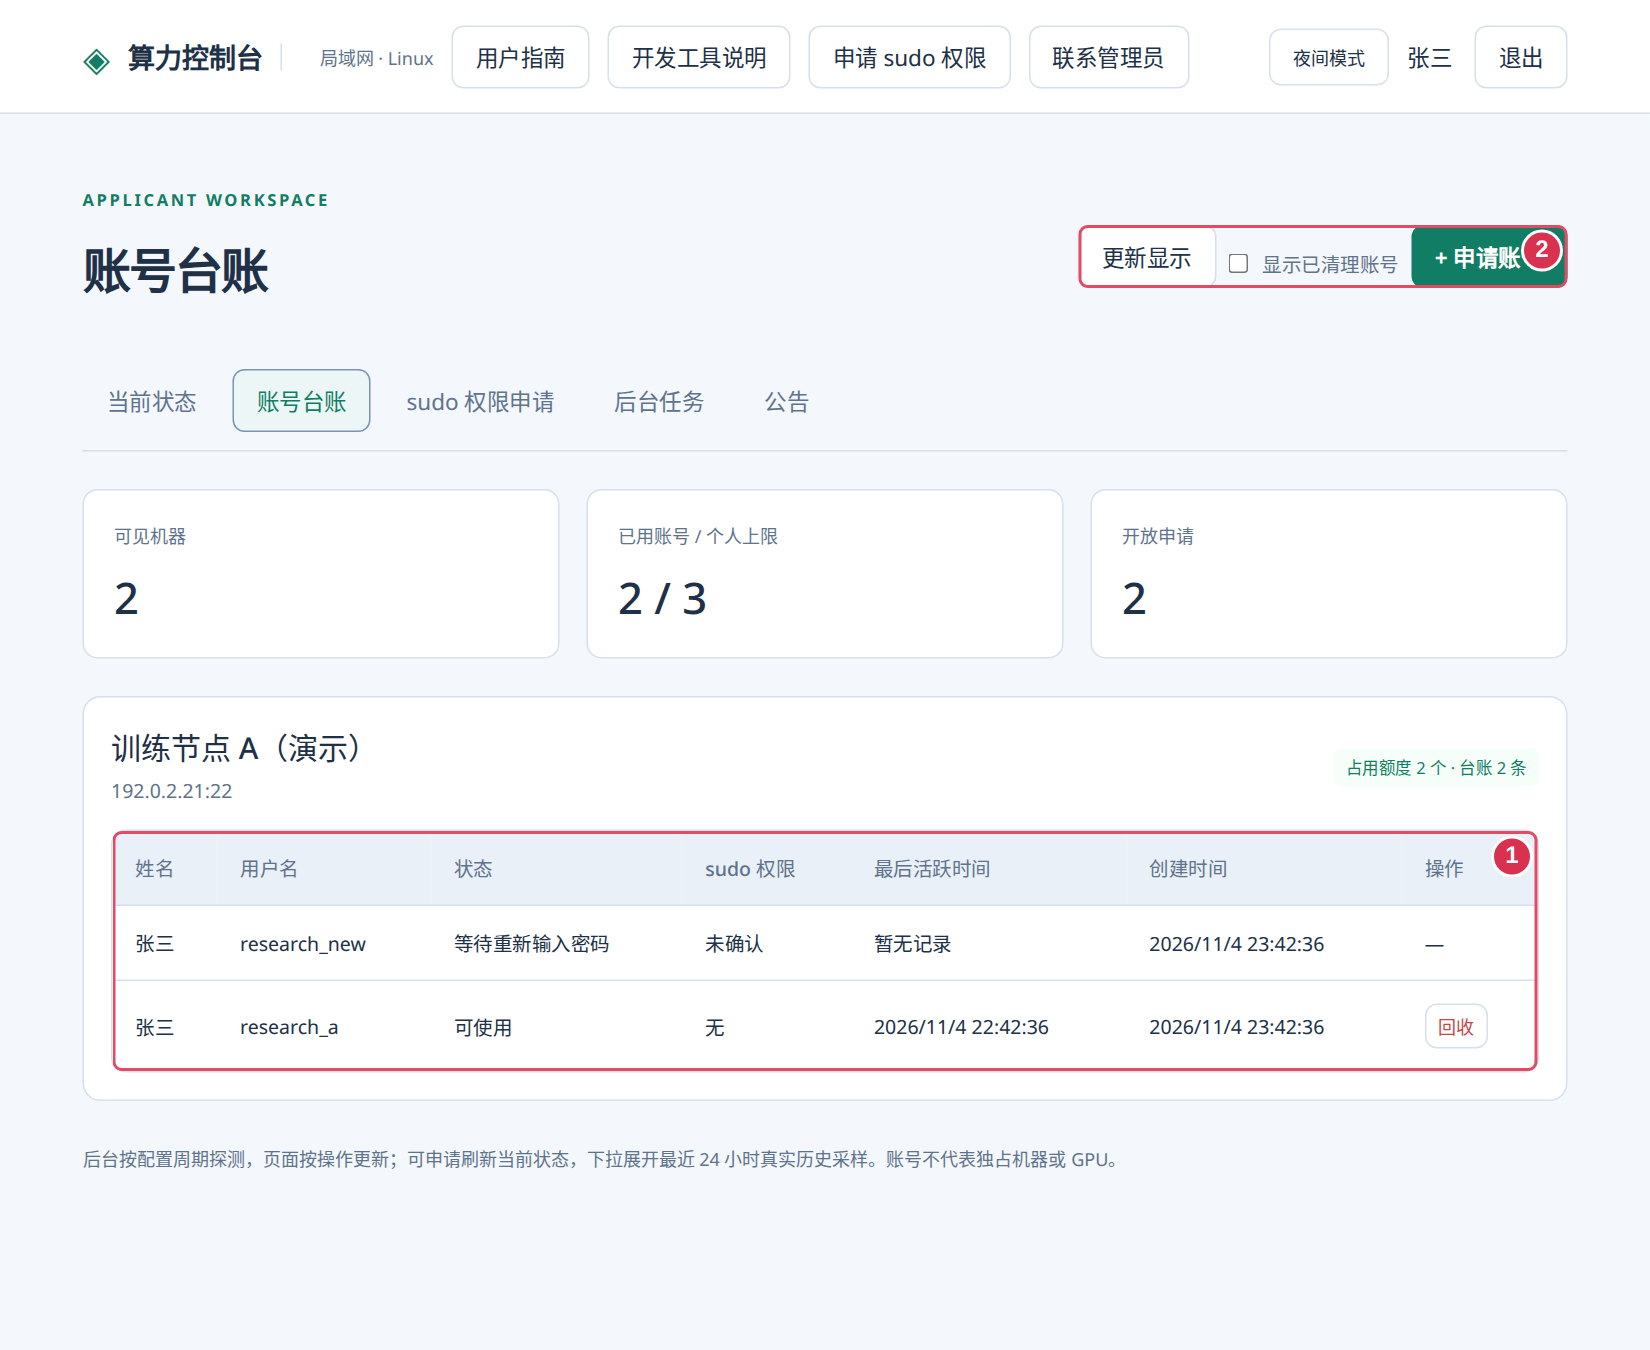
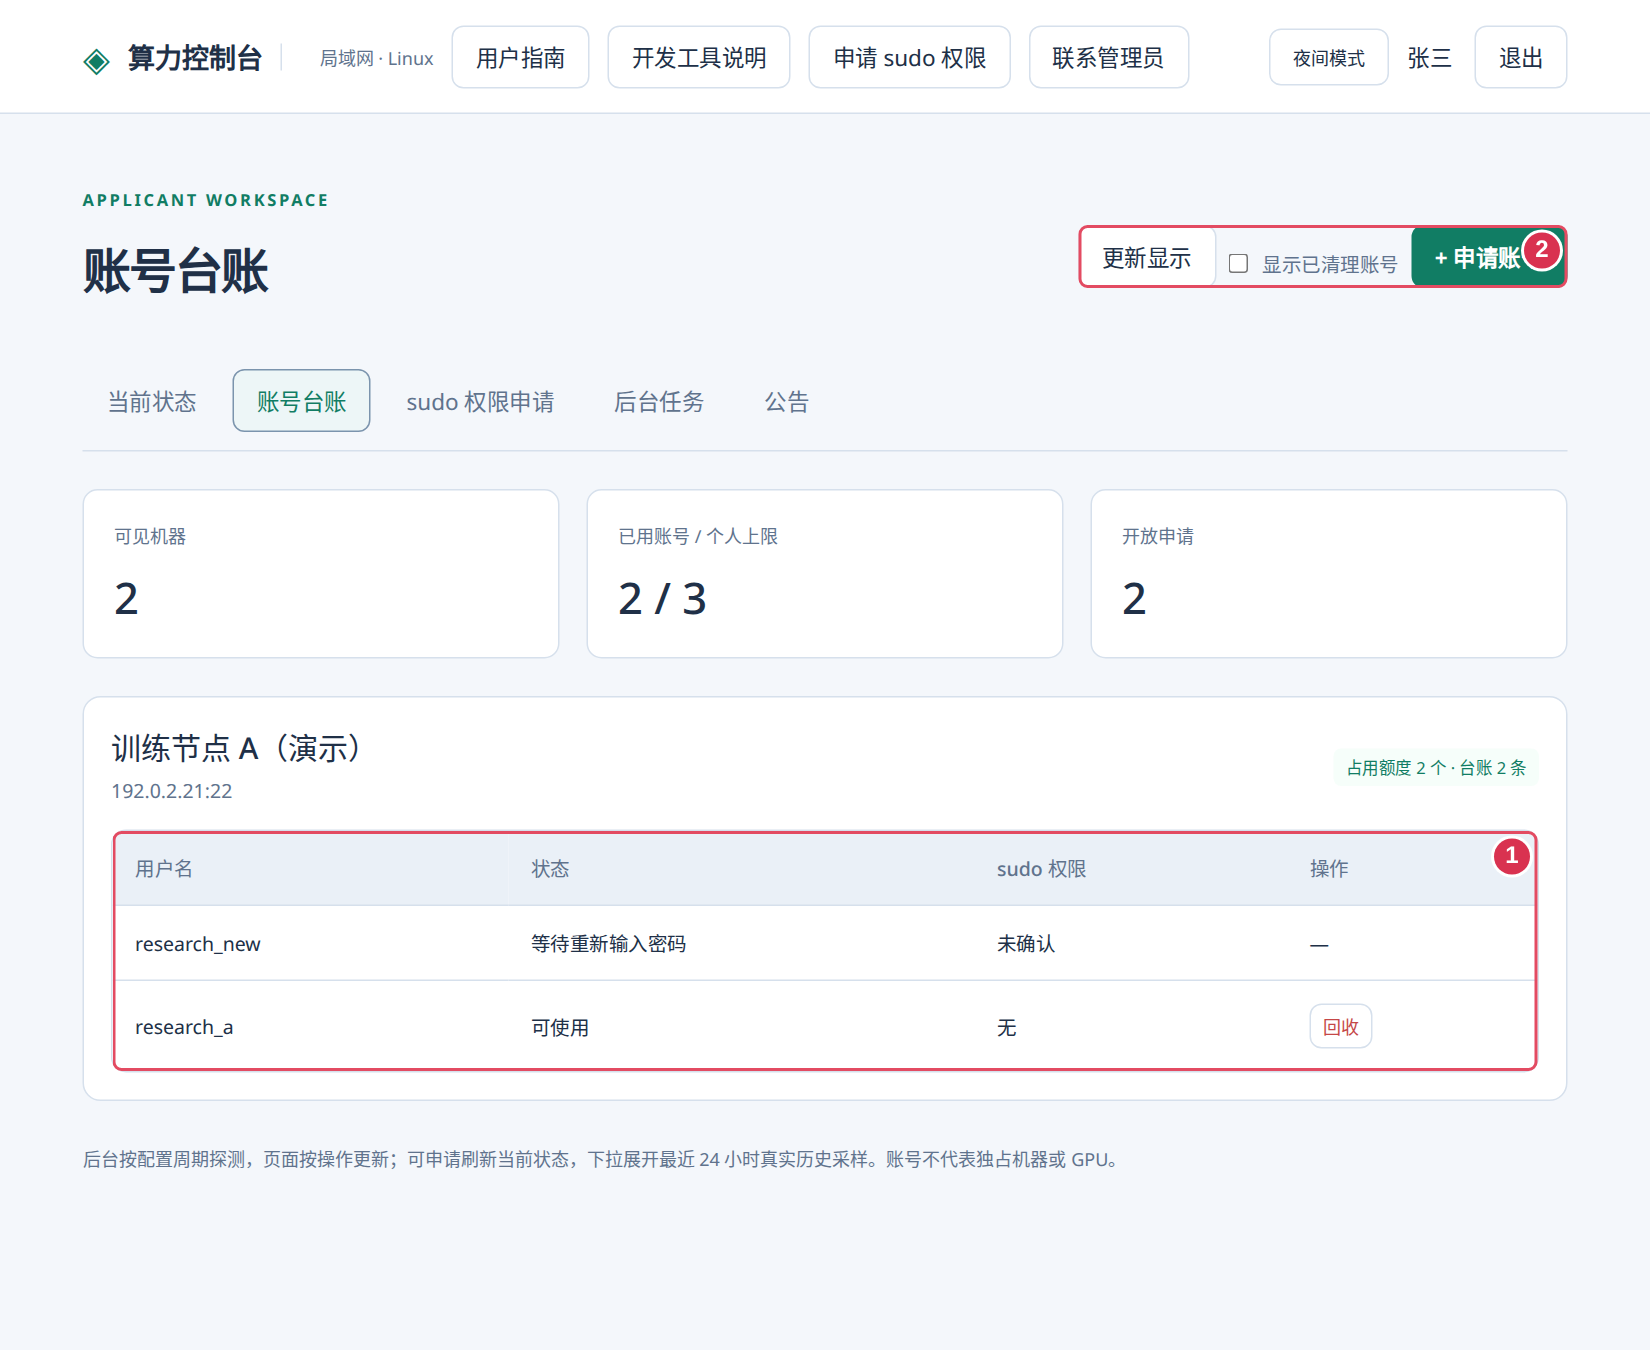
fix: show four essential applicant ledger columns; 17 tests pass

diff --git a/src/compute_control/static/app.js b/src/compute_control/static/app.js
@@ -130,13 +130,13 @@ function lastActive(account) {
 }
 function renderAccountGroups(accounts, content) {
   if (!accounts.length) { content.append(empty('尚无登记账号', '申请后，这里按机器保存姓名与账号的对应关系。')); return; }
-  const groups = new Map(), showOwner = state.role === 'admin';
+  const groups = new Map(), isAdmin = state.role === 'admin';
   for (const account of accounts) { if (!groups.has(account.machine_id)) groups.set(account.machine_id, []); groups.get(account.machine_id).push(account); }
   for (const rows of [...groups.values()].sort((a, b) => a[0].machine_name.localeCompare(b[0].machine_name, 'zh-CN', { numeric: true }))) {
     const machine = rows[0], group = el('section', undefined, 'panel account-machine-group'), heading = el('div', undefined, 'account-machine-heading');
     const title = el('div'); title.append(el('h2', machine.machine_name), el('p', `${machine.host}:${machine.port}`, 'muted'));
     heading.append(title, el('span', `占用额度 ${rows.filter(account => account.occupies).length} 个 · 台账 ${rows.length} 条`, 'badge')); group.append(heading);
-    group.append(table([...(showOwner ? ['姓名'] : []), '用户名', '状态', 'sudo 权限', '最后活跃时间', '创建时间', '操作'], rows.map(account => [...(showOwner ? [account.name] : []), account.username, (labels[account.state] || account.state) + (account.ledger_cleared_at ? '（已清理）' : ''), showOwner ? Portal.permissionSwitch(account) : account.is_admin == null ? '未确认' : account.is_admin ? '有' : '无', lastActive(account), date(account.created), Portal.accountControls(account)])));
+    group.append(table([...(isAdmin ? ['姓名'] : []), '用户名', '状态', 'sudo 权限', ...(isAdmin ? ['最后活跃时间', '创建时间'] : []), '操作'], rows.map(account => [...(isAdmin ? [account.name] : []), account.username, (labels[account.state] || account.state) + (account.ledger_cleared_at ? '（已清理）' : ''), isAdmin ? Portal.permissionSwitch(account) : account.is_admin == null ? '未确认' : account.is_admin ? '有' : '无', ...(isAdmin ? [lastActive(account), date(account.created)] : []), Portal.accountControls(account)])));
     content.append(group);
   }
 }

diff --git a/docs/records/2026-11-05-applicant-ledger-columns.md b/docs/records/2026-11-05-applicant-ledger-columns.md
@@ -7,3 +7,11 @@
 - 台账与最后活跃时间相关 5 项测试通过；JavaScript 语法、Ruff 及差异检查通过。
 - 已同步部署静态脚本并核对静态资源 HTTP 响应的哈希；部署前保存备份，Web 和 worker 进程均未重启。
 - 本次仅调整表格展示，未变更账号归属、服务端访问规则或凭据。
+
+## 继续精简申请者列
+
+- 按后续要求，申请者台账同时隐藏最后活跃时间与创建时间，仅保留用户名、状态、sudo 权限和操作；管理员保持七列。
+- 浏览器回归先确认时间列仍可见而失败，修改后验证双角色列数与表头；台账、活跃时间、管理改密和图文指南共 17 项测试通过。
+- 同步申请者 Markdown 文案及台账配图；新图来自隔离数据库与 FakeRemote，不含真实机器或用户数据。
+- 部署前备份对应文件，更新已安装资源、发行源码副本及安装包文件校验记录；静态资源响应与本地哈希一致，Web 和 worker 均未重启。
+- 核对既有管理改密逻辑及测试：原 SSH / sudo 密码相同时同步两项凭据，原密码不同时保留独立 sudo 凭据；新连接通过后才写入正式凭据。本次未修改该逻辑。

diff --git a/docs/USER_GUIDE.md b/docs/USER_GUIDE.md
@@ -38,11 +38,11 @@ ssh -p <SSH端口> <自己的Linux用户名>@<当前可达的机器地址>
 
 ## 额度与账号台账
 
-![账号台账：按机器分类，核对账号状态、sudo 权限和最后活跃时间](../src/compute_control/static/guide-images/applicant-accounts.png)
+![账号台账：按机器分类，核对用户名、账号状态和 sudo 权限](../src/compute_control/static/guide-images/applicant-accounts.png)
 
 - 个人上限由当前全局默认额度或个人设置决定，跨机器合计；同一台机器可以有多个账号，统一计入总额度。
 - 创建中、回收中或结果不明的账号可能仍占额度；先处理原任务，确有需要再联系管理员调整。
-- “最后活跃时间”是该机账号最近一次可观测的成功登录，不代表进程结束时间；“暂无记录”不代表从未使用。
+- 台账仅展示自己的账号，按机器分组，显示用户名、状态、sudo 权限及可用操作。
 - 完成回收、原 home 清理且无未完成任务后，才可“清理台账”。这只隐藏当前身份的显示，勾选“显示已清理账号”可恢复，不删除归档或审计。
 
 ## sudo 权限申请与开发工具
